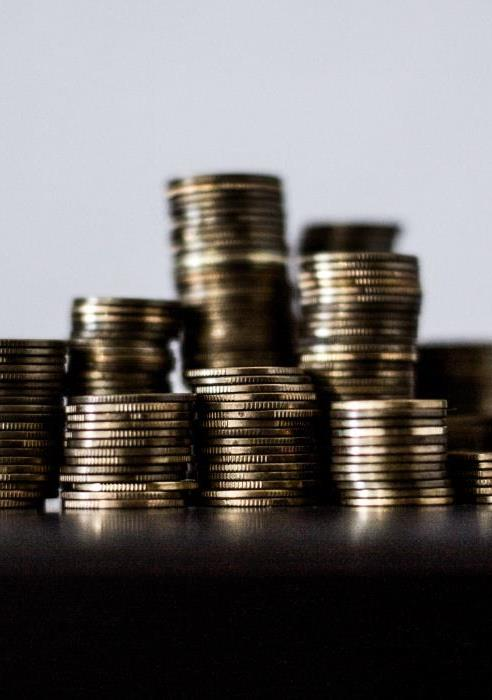
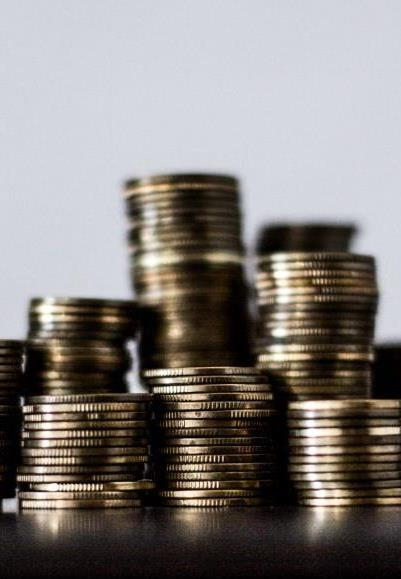
minor changes

diff --git a/index.html b/index.html
@@ -440,7 +440,7 @@
 
 </div>
 
-<video autoplay loop id="video-background" muted poster="imgs/capture.png">
+<video autoplay loop id="video-background" muted poster="imgs/coins.png">
     <source src="http://sauditharwa.com/wp-content/uploads/2017/02/tharwahome-v7-ultrawide.mp4?_=1" type="video/mp4">
 </video>
 <!-- /#wrapper -->
